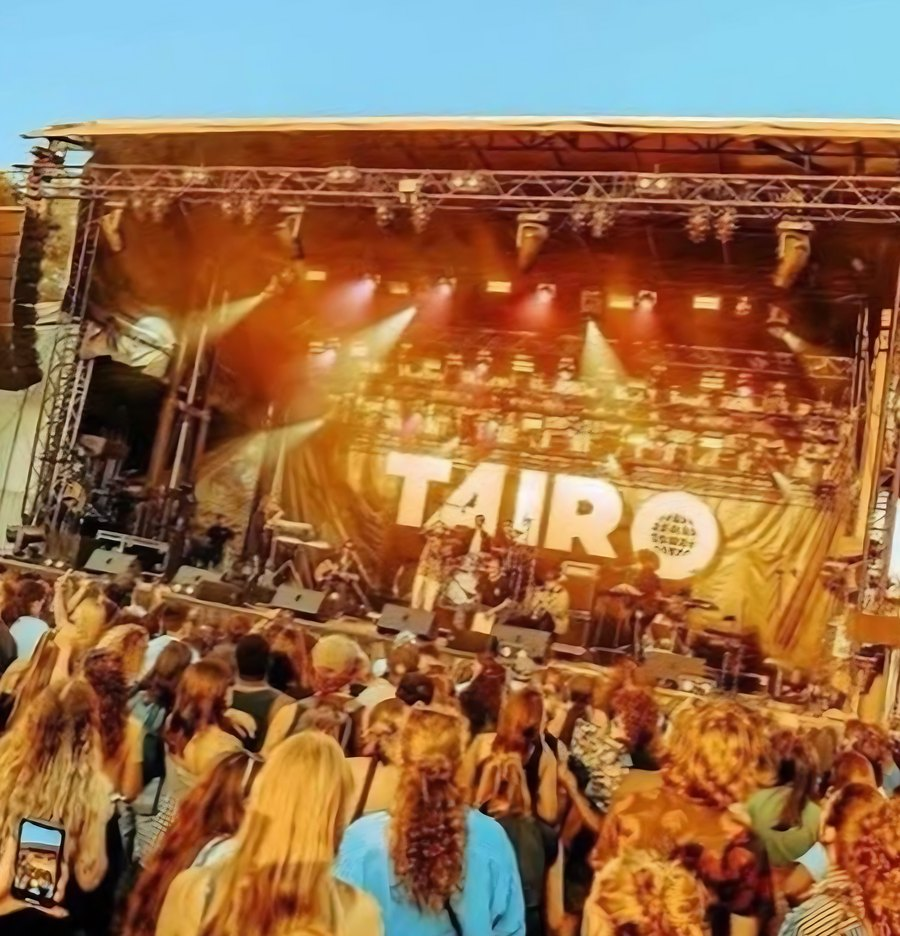
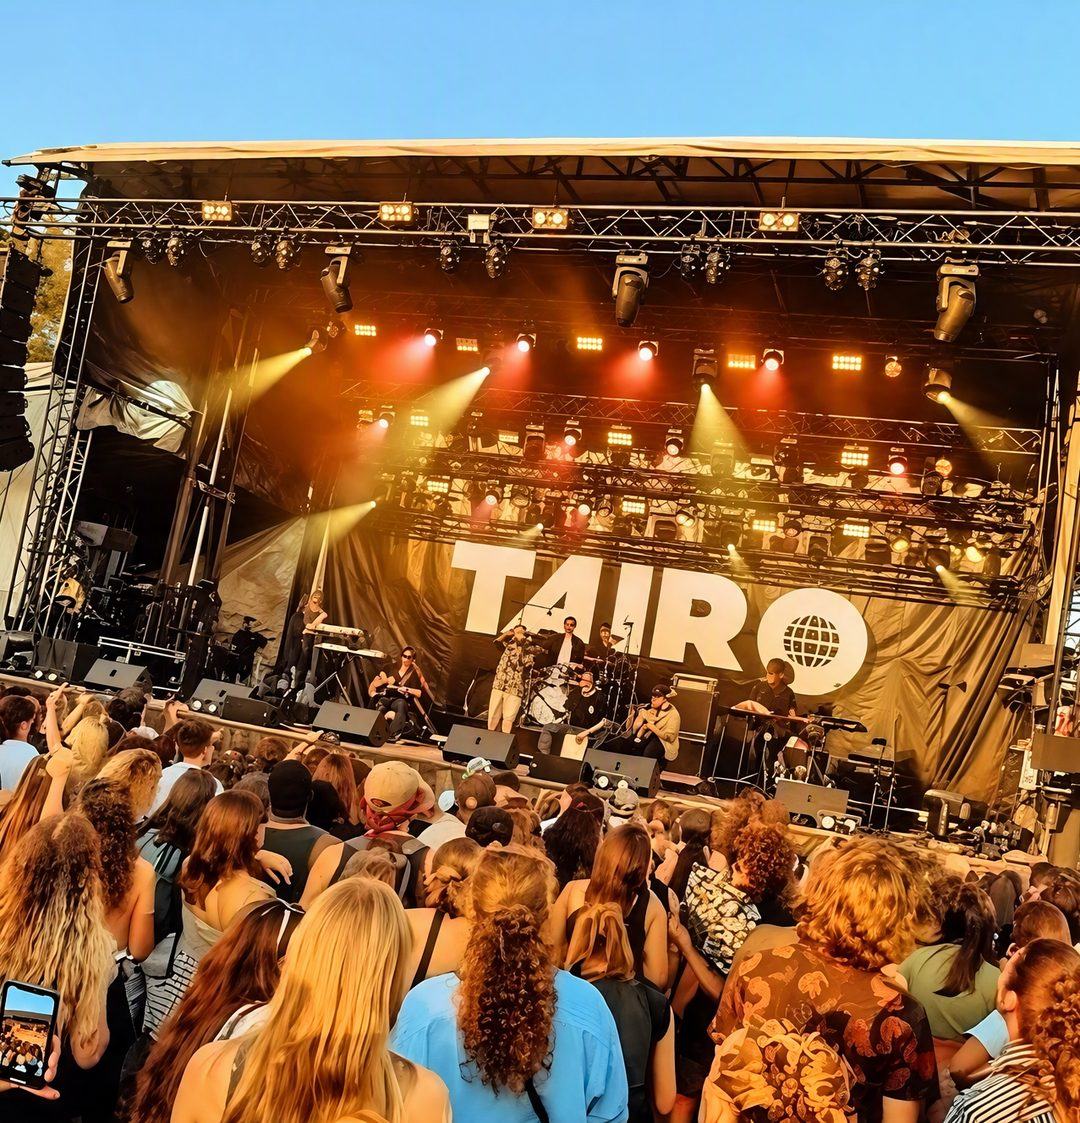
Grande scène nette (retouche IA signalée en pied de lettre)

diff --git a/index.html b/index.html
@@ -479,7 +479,7 @@
           </p>
           <p style="margin:0;font-family:'Hanken Grotesk',Arial,sans-serif;font-size:10.5px;line-height:1.7;color:#61758E;">
             Option gratuite et sans engagement, dans la limite des sc&egrave;nes disponibles.<br>
-            Photo d’ouverture&nbsp;: Sophie Vernet.<br>
+            Photo d’ouverture&nbsp;: Sophie Vernet. Photo de la grande sc&egrave;ne retouch&eacute;e par IA.<br>
             Vous recevez cette lettre d’information technique en tant que collectivit&eacute;, partenaire ou client.
             Vous pouvez <a href="{{ unsubscribe }}" style="color:#90A4BD;text-decoration:underline;">vous d&eacute;sinscrire</a> &agrave; tout moment.
           </p>
